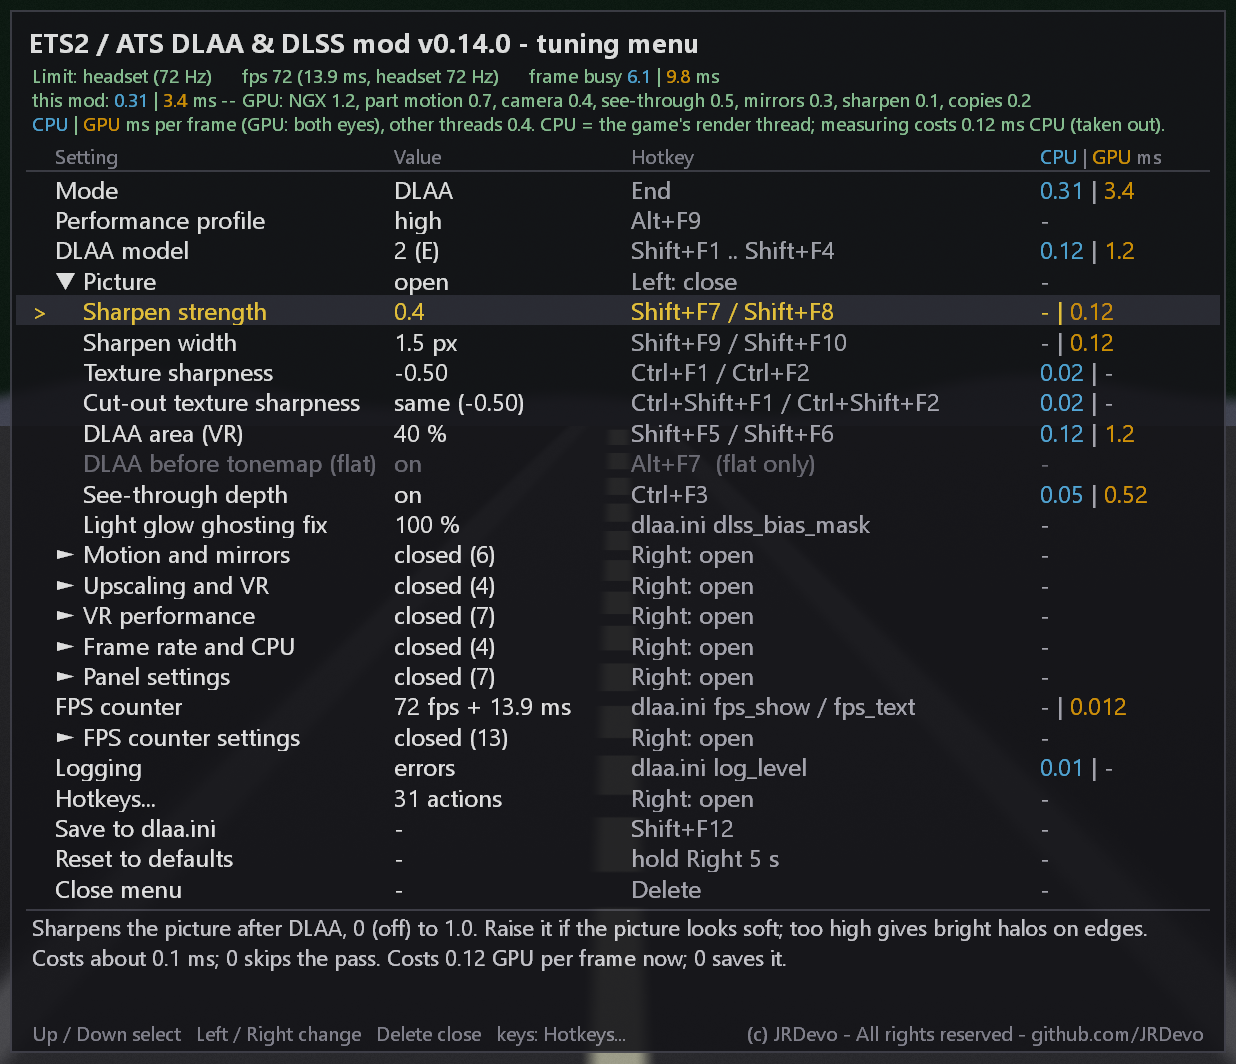
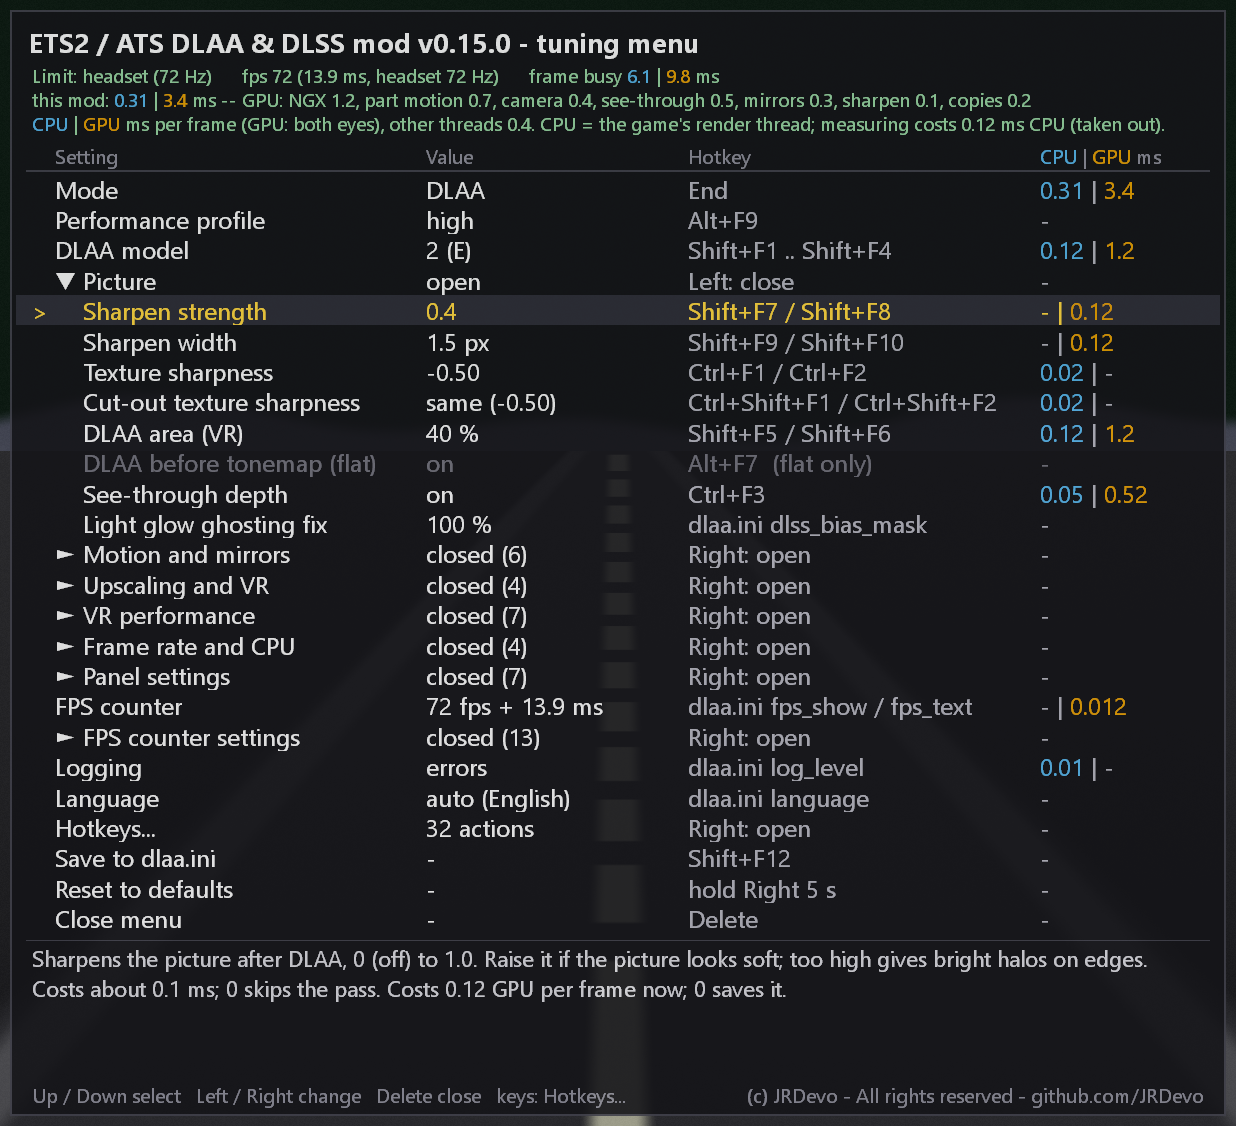
v0.15.0: version bump, docs, menu pictures
README: banner moved below the CAUTION block (the red block stays first); old v0.14.0 'new' tags off; key names
feature line; Troubleshooting lines for the Varjo eye pairing fix (#21), the drive-start eye fix and the menu language;
Pause = shimmer capture in the key table. KEYS.md + CONTRIBUTING: shimmer capture (key_shimmer_capture, Pause).
menu_shot: Language row, 32 hotkey actions incl. Shimmer capture, v0.15.0 title; pictures redone.
inject.cpp changelog: v0.15.0 entry.

diff --git a/tests/menu_shot.cpp b/tests/menu_shot.cpp
@@ -118,7 +118,8 @@ static const E kRows[] = {
     { G_FPSG, false, L"FPS opacity", L"100 %", L"dlaa.ini fps_opacity", L"", false, nullptr, nullptr },   // phase 51f
     { G_FPSG, false, L"FPS distance (VR)", L"0.80 m", L"dlaa.ini fps_vr_dist", L"", false, nullptr, nullptr },
     { -1, false, L"Logging", L"errors", L"dlaa.ini log_level", L"<c>0.01</> | -", false, nullptr, nullptr },
-    { -1, false, L"Hotkeys...", L"31 actions", L"Right: open", L"", false, nullptr, nullptr },   // v0.13.0 phase 50
+    { -1, false, L"Language", L"auto (English)", L"dlaa.ini language", L"", false, nullptr, nullptr },   // phase 74
+    { -1, false, L"Hotkeys...", L"32 actions", L"Right: open", L"", false, nullptr, nullptr },   // v0.13.0 phase 50
     { -1, false, L"Save to dlaa.ini", L"-", L"Shift+F12", L"", false, nullptr, nullptr },
     { -1, false, L"Reset to defaults", L"-", L"hold Right 5 s", L"", false, nullptr, nullptr },
     { -1, false, L"Close menu", L"-", L"Delete", L"", false, nullptr, nullptr },
@@ -131,7 +132,7 @@ static const wchar_t kPerf1[] = L"this mod: <c>0.31</> | <g>3.4</> ms -- GPU: NG
                                 L"mirrors 0.3, sharpen 0.1, copies 0.2";
 static const wchar_t kPerf2[] = L"<c>CPU</> | <g>GPU</> ms per frame (GPU: both eyes), other threads 0.4. CPU = the game's render thread; "
                                 L"measuring costs 0.12 ms CPU (taken out).";
-static const wchar_t kTitle[] = L"ETS2 / ATS DLAA & DLSS mod v0.14.0 - tuning menu";
+static const wchar_t kTitle[] = L"ETS2 / ATS DLAA & DLSS mod v0.15.0 - tuning menu";
 static const wchar_t kFooter[] = L"Up / Down select   Left / Right change   Delete close   keys: Hotkeys...";
 
 // Ink shorthand in the table strings: "<c>0.31</>" = CPU blue, "<g>3.4</>" = GPU orange (menu.h kInkCpu / kInkGpu / kInkEnd).
@@ -377,7 +378,8 @@ static void HotkeysShot(Gpu& g, const wchar_t* file) {
         { L"Per-part motion vectors", L"Alt+F5", L"-" }, { L"Mirror DLAA on / off", L"Alt+F6", L"-" },
         { L"DLAA before tonemap (flat)", L"Alt+F7", L"-" }, { L"See-through depth", L"Ctrl+F3", L"-" },
         { L"Thin-wire motion (DLAA)", L"Alt+F10", L"-" }, { L"Thin-wire depth", L"Alt+F11", L"-" }, { L"Thin-wire widening", L"Alt+F12", L"-" },
-        { L"DLSS upscale", L"Ctrl+F4", L"-" }, { L"DLAA on / off", L"Shift+F11", L"-" }, { L"Save to dlaa.ini", L"Shift+F12", L"-" },
+        { L"DLSS upscale", L"Ctrl+F4", L"-" }, { L"DLAA on / off", L"Shift+F11", L"-" },
+        { L"Shimmer capture", L"Pause", L"-" }, { L"Save to dlaa.ini", L"Shift+F12", L"-" },
         { L"Menu: open / close", L"Delete", L"Wheel10" }, { L"Menu: up", L"Up", L"WheelUp" }, { L"Menu: down", L"Down", L"WheelDown" },
         { L"Menu: left", L"Left", L"WheelLeft" }, { L"Menu: right", L"Right", L"WheelRight" },
     };
@@ -386,7 +388,7 @@ static void HotkeysShot(Gpu& g, const wchar_t* file) {
     const int bindLine = 8;                                        // "Sharpen strength +"
     TuningMenu::Panel p;
     memset(&p, 0, sizeof(p));
-    wcsncpy_s(p.title, L"ETS2 / ATS DLAA & DLSS mod v0.14.0 - hotkeys", _TRUNCATE);
+    wcsncpy_s(p.title, L"ETS2 / ATS DLAA & DLSS mod v0.15.0 - hotkeys", _TRUNCATE);
     Put(p.perf[0], 224, Ink(kPerf0));
     Put(p.perf[1], 224, Ink(kPerf1));
     Put(p.perf[2], 224, Ink(kPerf2));

diff --git a/src/inject.cpp b/src/inject.cpp
@@ -1,3 +1,5 @@
+// v0.15.0 -- phase 74 (the tuning menu in all 43 game languages: lang.cpp / lang.h, TR / TRF, dlaa.ini language, the menu's
+//           Language row, key names for the player's keyboard layout) + everything of v0.14.1 below (never a full release).
 // v0.14.1 -- phase 71 (shimmer capture on the Pause key), phase 72 (VR eye -> OpenXR view by the optical centre before the
 //           eye blits; issue #21: a Varjo Aero paired an eye with the other eye's view = no hidden mask + wrong-eye gaze),
 //           phase 73 (the drive's eye map starts from the menu preview's decided eyes, not the pair-index guess: no ~2 s

diff --git a/README.md b/README.md
@@ -1,5 +1,3 @@
-![ETS2 & ATS DLAA & DLSS Mod: a sharper, steadier picture, flat and VR, with an in-game menu in 43 languages](docs/images/banner.jpg)
-
 > [!CAUTION]
 > ## THIS GITHUB PAGE IS THE ONLY PLACE THIS MOD EXISTS
 > **`https://github.com/JRDevo/ETS2-ATS-DLAA-DLSS-Injection-Mod` is the only source of truth for this mod: the only place it is
@@ -10,6 +8,8 @@
 >   offers it is not mine and may carry anything. If it did not come from this GitHub page, do not run it.
 > - Updates, release notes, the hotkey list and the troubleshooting guide live here and only here. If someone tells you to get the mod
 >   somewhere else, they are wrong.
+
+![ETS2 & ATS DLAA & DLSS Mod: a sharper, steadier picture, flat and VR, with an in-game menu in 43 languages](docs/images/banner.jpg)
 
 # ETS2 & ATS: DLAA & DLSS Injection Mod
 
@@ -37,7 +37,7 @@ an in-game menu (`Delete`) and an optional text config.
 - **Mirrors anti-aliased too**, trailer included.
 - **Exact motion for traffic**, wheels, trailers and plates: sharp, no ghosting.
 - Menu and truck-preview screens get anti-aliasing as well.
-- **Steadier near wires**: telephone and power wires stay calm while you drive. **new**
+- **Steadier near wires**: telephone and power wires stay calm while you drive.
 - Four DLSS models, switched live with a key.
 - Sharper texture text and adjustable sharpening.
 
@@ -45,12 +45,12 @@ an in-game menu (`Delete`) and an optional text config.
 - One DLL and one `dlaa.ini` for both; VR renders one pass per eye (OpenXR).
 - **Triple screens** in flat: every screen gets its own DLAA.
 - Windows HDR and NVIDIA Smooth Motion work in flat mode.
-- OFXR Bridge (VR frame generation) and **VectorXR** (VR layer suite) work alongside. **new: VectorXR**
+- OFXR Bridge (VR frame generation) and **VectorXR** (VR layer suite) work alongside.
 - Drivable cars (ATS) get DLAA / DLSS too.
 
 **VR extras and speed**
-- **Eye-tracked foveated rendering**: the sharp area follows your eyes (eye-tracked headsets, experimental). **new**
-- **Foveated strength**: Normal / Strong / Max outer ring for more GPU saving. **new**
+- **Eye-tracked foveated rendering**: the sharp area follows your eyes (eye-tracked headsets, experimental).
+- **Foveated strength**: Normal / Strong / Max outer ring for more GPU saving.
 - **VR fps counter attached to the vehicle**: rides with the cab; 20 colours.
 - Three VR speed-ups: hidden area mask, foveated lighting, mirrors in turns.
 - DLAA area: process only the middle of each eye.
@@ -61,6 +61,7 @@ an in-game menu (`Delete`) and an optional text config.
 - Panel and fps counter can be moved and resized, flat and VR.
 - **VR panel fixed in the cab**: stays still while you look around; sharper text.
 - **The menu in your language**: all 43 languages of the game, picked from the game's own setting. **new**
+- **Key names for your keyboard**: `Strg+F9` / `Entf` on a German keyboard, `Suppr` on a French one. **new**
 - Live CPU and GPU cost per part, and what limits your frame rate.
 
 **Setup**
@@ -533,6 +534,7 @@ These need `log_level = 4` in `dlaa.ini`. They are for diagnostics and bug repor
 | `Ctrl+F7` | Passive mode on / off |
 | `Ctrl+F8` | Jitter-only debug on / off |
 | `Ctrl+F9` | Self-test (dumps frames) |
+| `Pause` | Shimmer capture: DLAA on and off frames + log + `dlaa.ini` in one folder (new in v0.15.0) |
 | `Ctrl+F10` | NGX input snapshot |
 | `Ctrl+F11` | Frame trace |
 | `Ctrl+F12` | Cycle NGX jitter sign |
@@ -1034,6 +1036,13 @@ Windows 11 Pro, 3840x2160 monitor; VR = Meta Quest 3 over Virtual Desktop (VDXR)
   v0.14.0: update (GitHub issues #14 and #15).
 - **The VR menu panel shivers or jitters when you move your head (most with Turbo mode on):** set `Panel lock (VR)` to
   `Fixed in cab` (new in v0.14.0). **The VR panel text looks thick or soft at a small panel size:** fixed in v0.14.0: update.
+- **VR (Varjo Aero): no hidden area mask, or eye tracking used the wrong eye; the log shows `hidden area mask: eye 1 /
+  OpenXR view 1 does NOT match`:** fixed in v0.15.0: update (GitHub issue #21).
+- **VR: for about 2 seconds at the start of each drive the picture smears or the foveated centre sits in the wrong
+  eye:** fixed in v0.15.0: update.
+- **The menu is English although the game is in another language:** the `Language` row must be on `auto` (or delete the
+  `language` line in `dlaa.ini`). Linux / Proton with Chinese, Japanese or Korean: the row says `font missing`, see
+  [Linux / Proton](#languages-and-fonts).
 - **Faint dark line down the middle of the menu / truck-preview screen:** fixed in v0.8.1: update.
 - **Dark 1 px line on every silhouette (trees, poles, trucks) in flat mode:** fixed in v0.10.1: update. v0.10.0
   drew the game's fog pass one texel off.

diff --git a/docs/KEYS.md b/docs/KEYS.md
@@ -267,6 +267,7 @@ debug colours).
 | `Ctrl+F6`  | MV debug view (see below)              | — |
 | `Ctrl+F7`  | Passive mode on / off                  | 1 low tone = ON, 2 low tones = OFF |
 | `Ctrl+F8`  | Jitter-only debug on / off             | — |
+| `Pause`    | Shimmer capture (v0.15.0): DLAA on and off frames, the log and `dlaa.ini` in one folder `dlaa_selftest\shimmer_<date>_<time>\` | — |
 | `Ctrl+F9`  | Self-test (dumps frames: `<mode>_<n>.bmp` = DLAA output, `final_<mode>_<n>.bmp` = the picture on screen, same frame) | — |
 | `Ctrl+F10` | NGX input snapshot, each press into its own folder `dlaa_snap\<n>_blit<blit>\` (on the menu / truck-preview screen: a measuring capture, short freeze) | — |
 | `Ctrl+F11` | Frame trace                            | — |
@@ -370,6 +371,7 @@ Keys: `F1`-`F24`, `A`-`Z`, `0`-`9`, `Home`, `End`, `Insert`, `Delete`, `PageUp`,
 | `key_passive` | Passive mode | `Ctrl+F7` |
 | `key_jitter_only` | Jitter-only debug | `Ctrl+F8` |
 | `key_selftest` | Self-test | `Ctrl+F9` |
+| `key_shimmer_capture` | Shimmer capture (v0.15.0): 12 frames with DLAA on, 12 with DLAA off, the log and `dlaa.ini` into `dlaa_selftest\shimmer_<date>_<time>\` | `Pause` |
 | `key_snapshot` | NGX input snapshot (menu / truck-preview screen: measuring capture) | `Ctrl+F10` |
 | `key_trace` | Frame trace | `Ctrl+F11` |
 | `key_jitter_sign` | Cycle NGX jitter sign | `Ctrl+F12` |

diff --git a/CONTRIBUTING.md b/CONTRIBUTING.md
@@ -48,6 +48,9 @@ The mod has its own capture keys. They need `log_level = 4`.
    screen the same key takes a measuring capture (a short freeze).
 4. For a part that smears or a number plate that blinks, also press **`Alt+F8`** next to it: the
    per-part motion state of the next frame goes into the log (`MV dump` lines).
+   **The quick way (v0.15.0):** look at the spot and press **`Pause`** (shimmer capture). The mod saves 12
+   frames with DLAA on and 12 with DLAA off, plus the log and your `dlaa.ini`, into one folder
+   `dlaa_selftest\shimmer_<date>_<time>\`. Zip that folder and attach it.
 5. Zip `dlaa_selftest\` and `dlaa_snap\` and attach them with the log and `dlaa.ini`. Say what to look
    at (a pole on the left, the shop window, the trailer's plate) and where / when you were.
 
